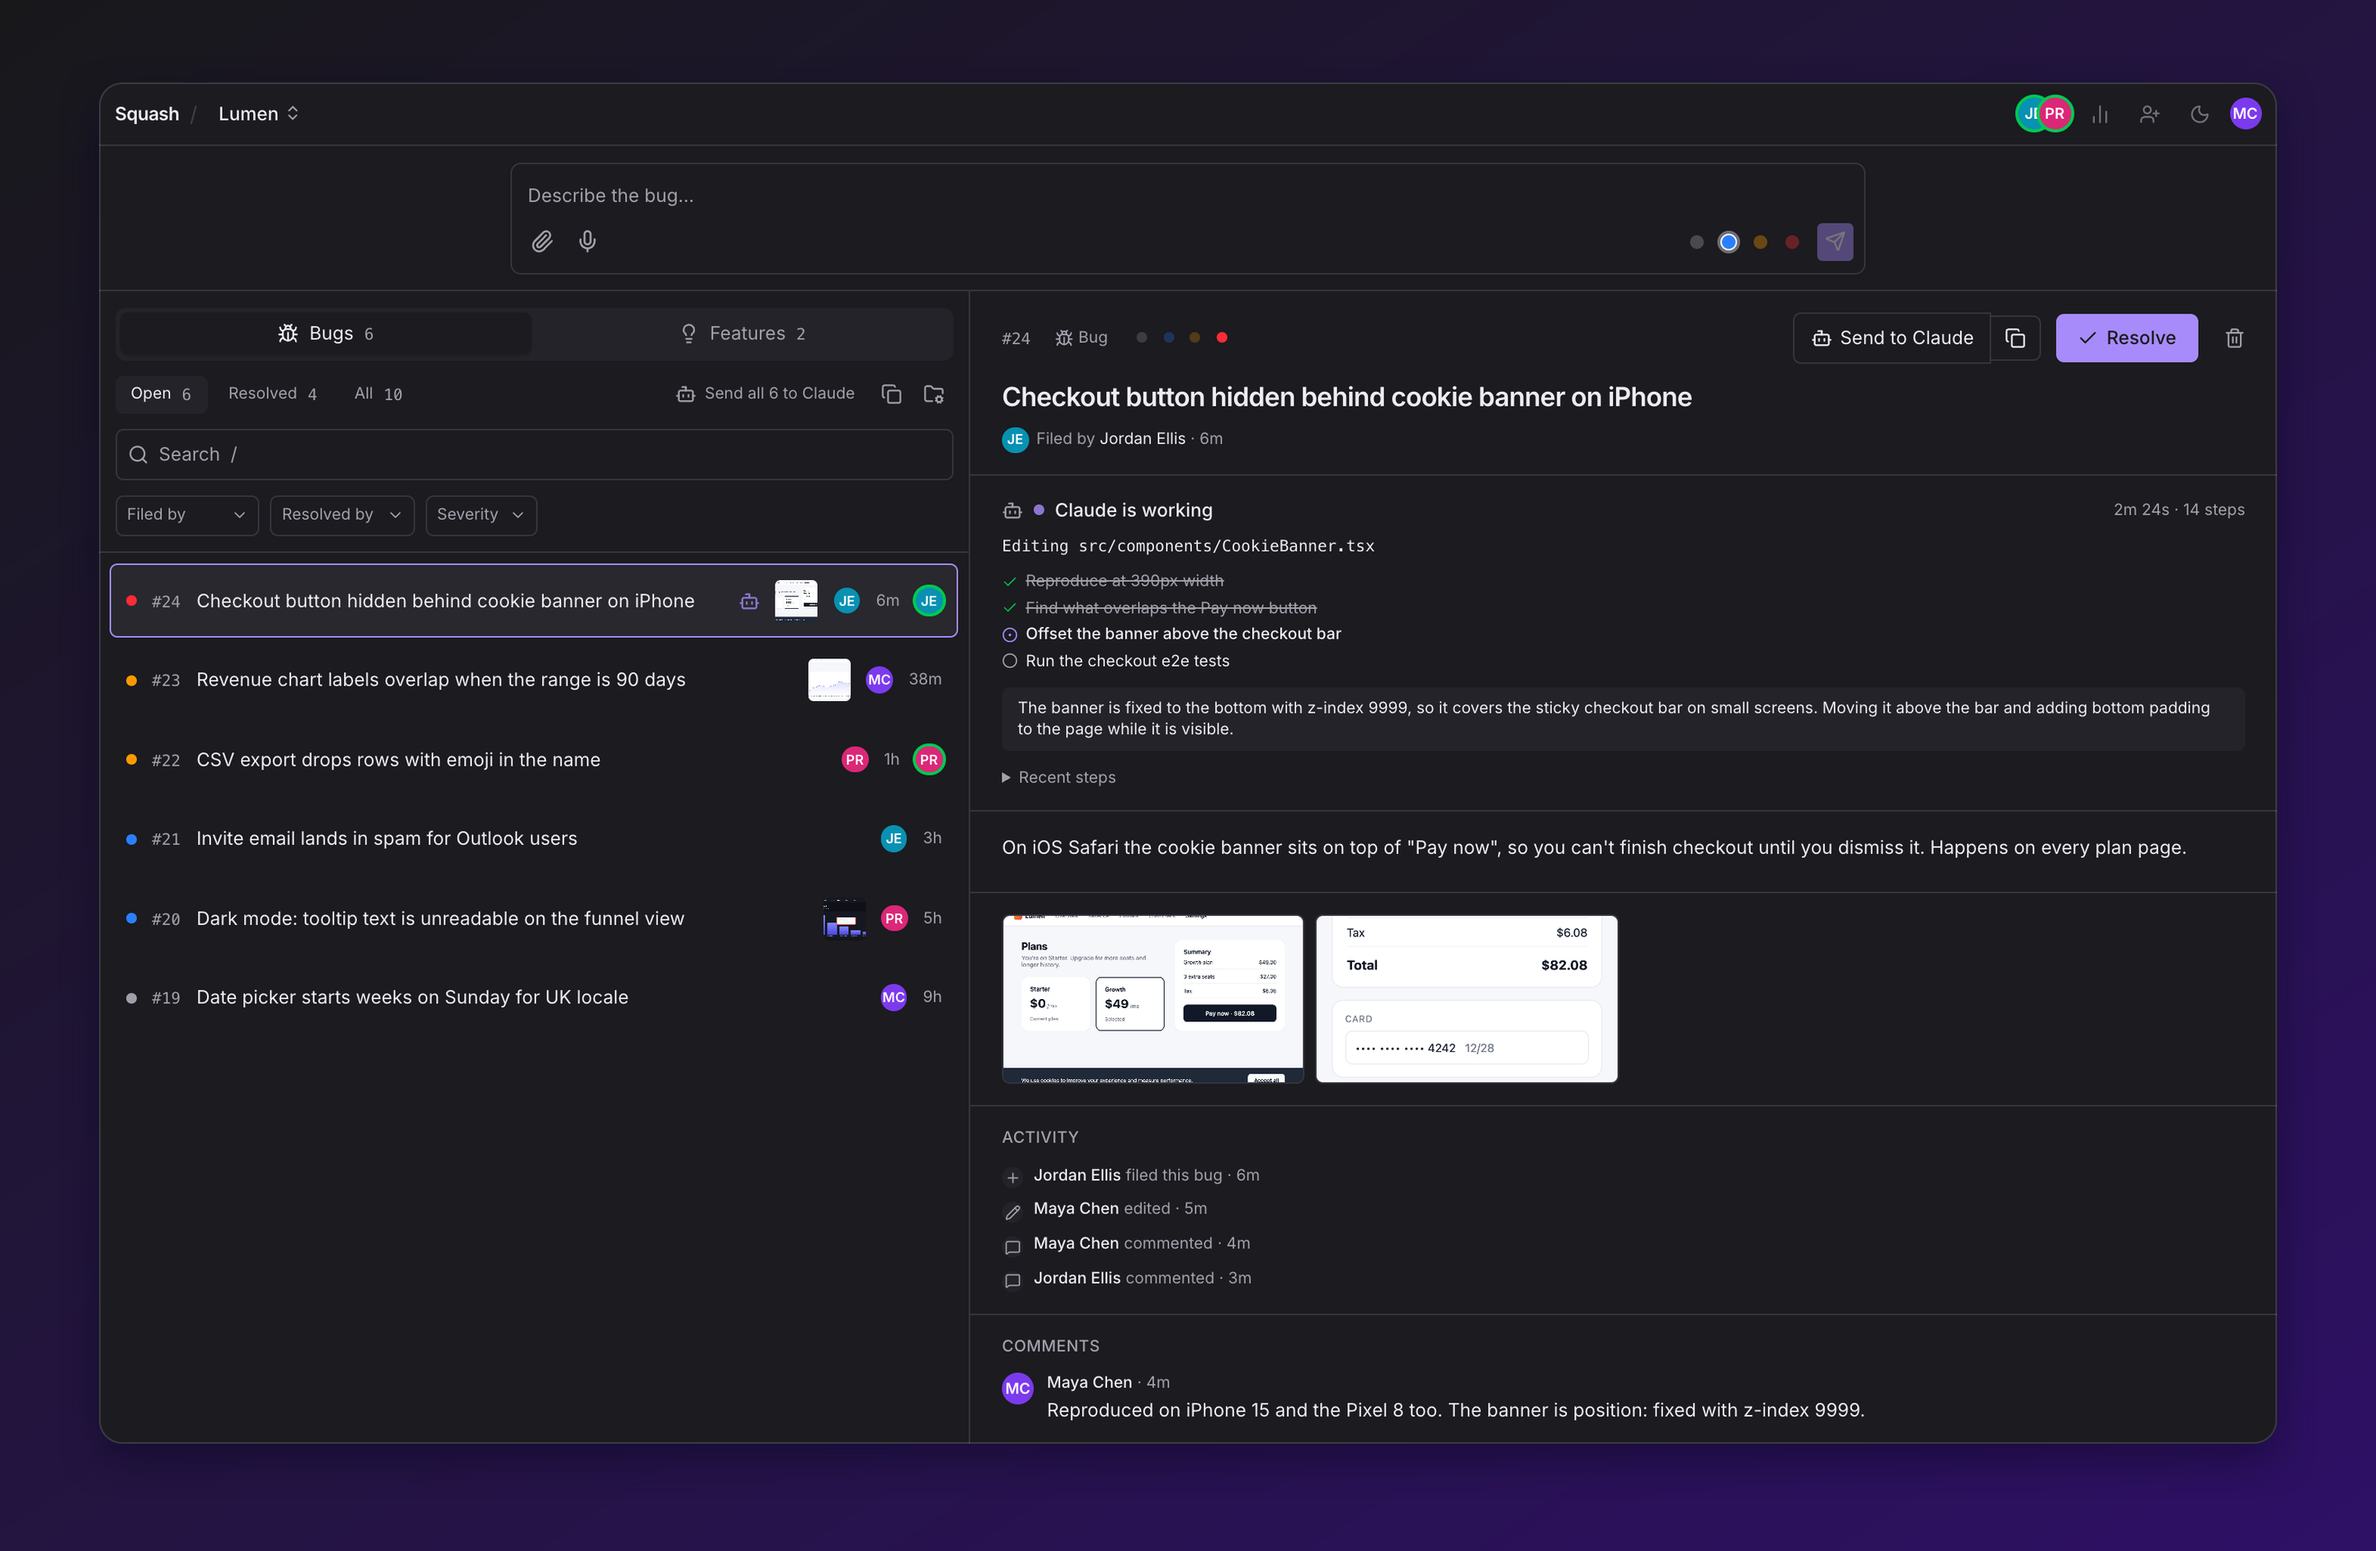
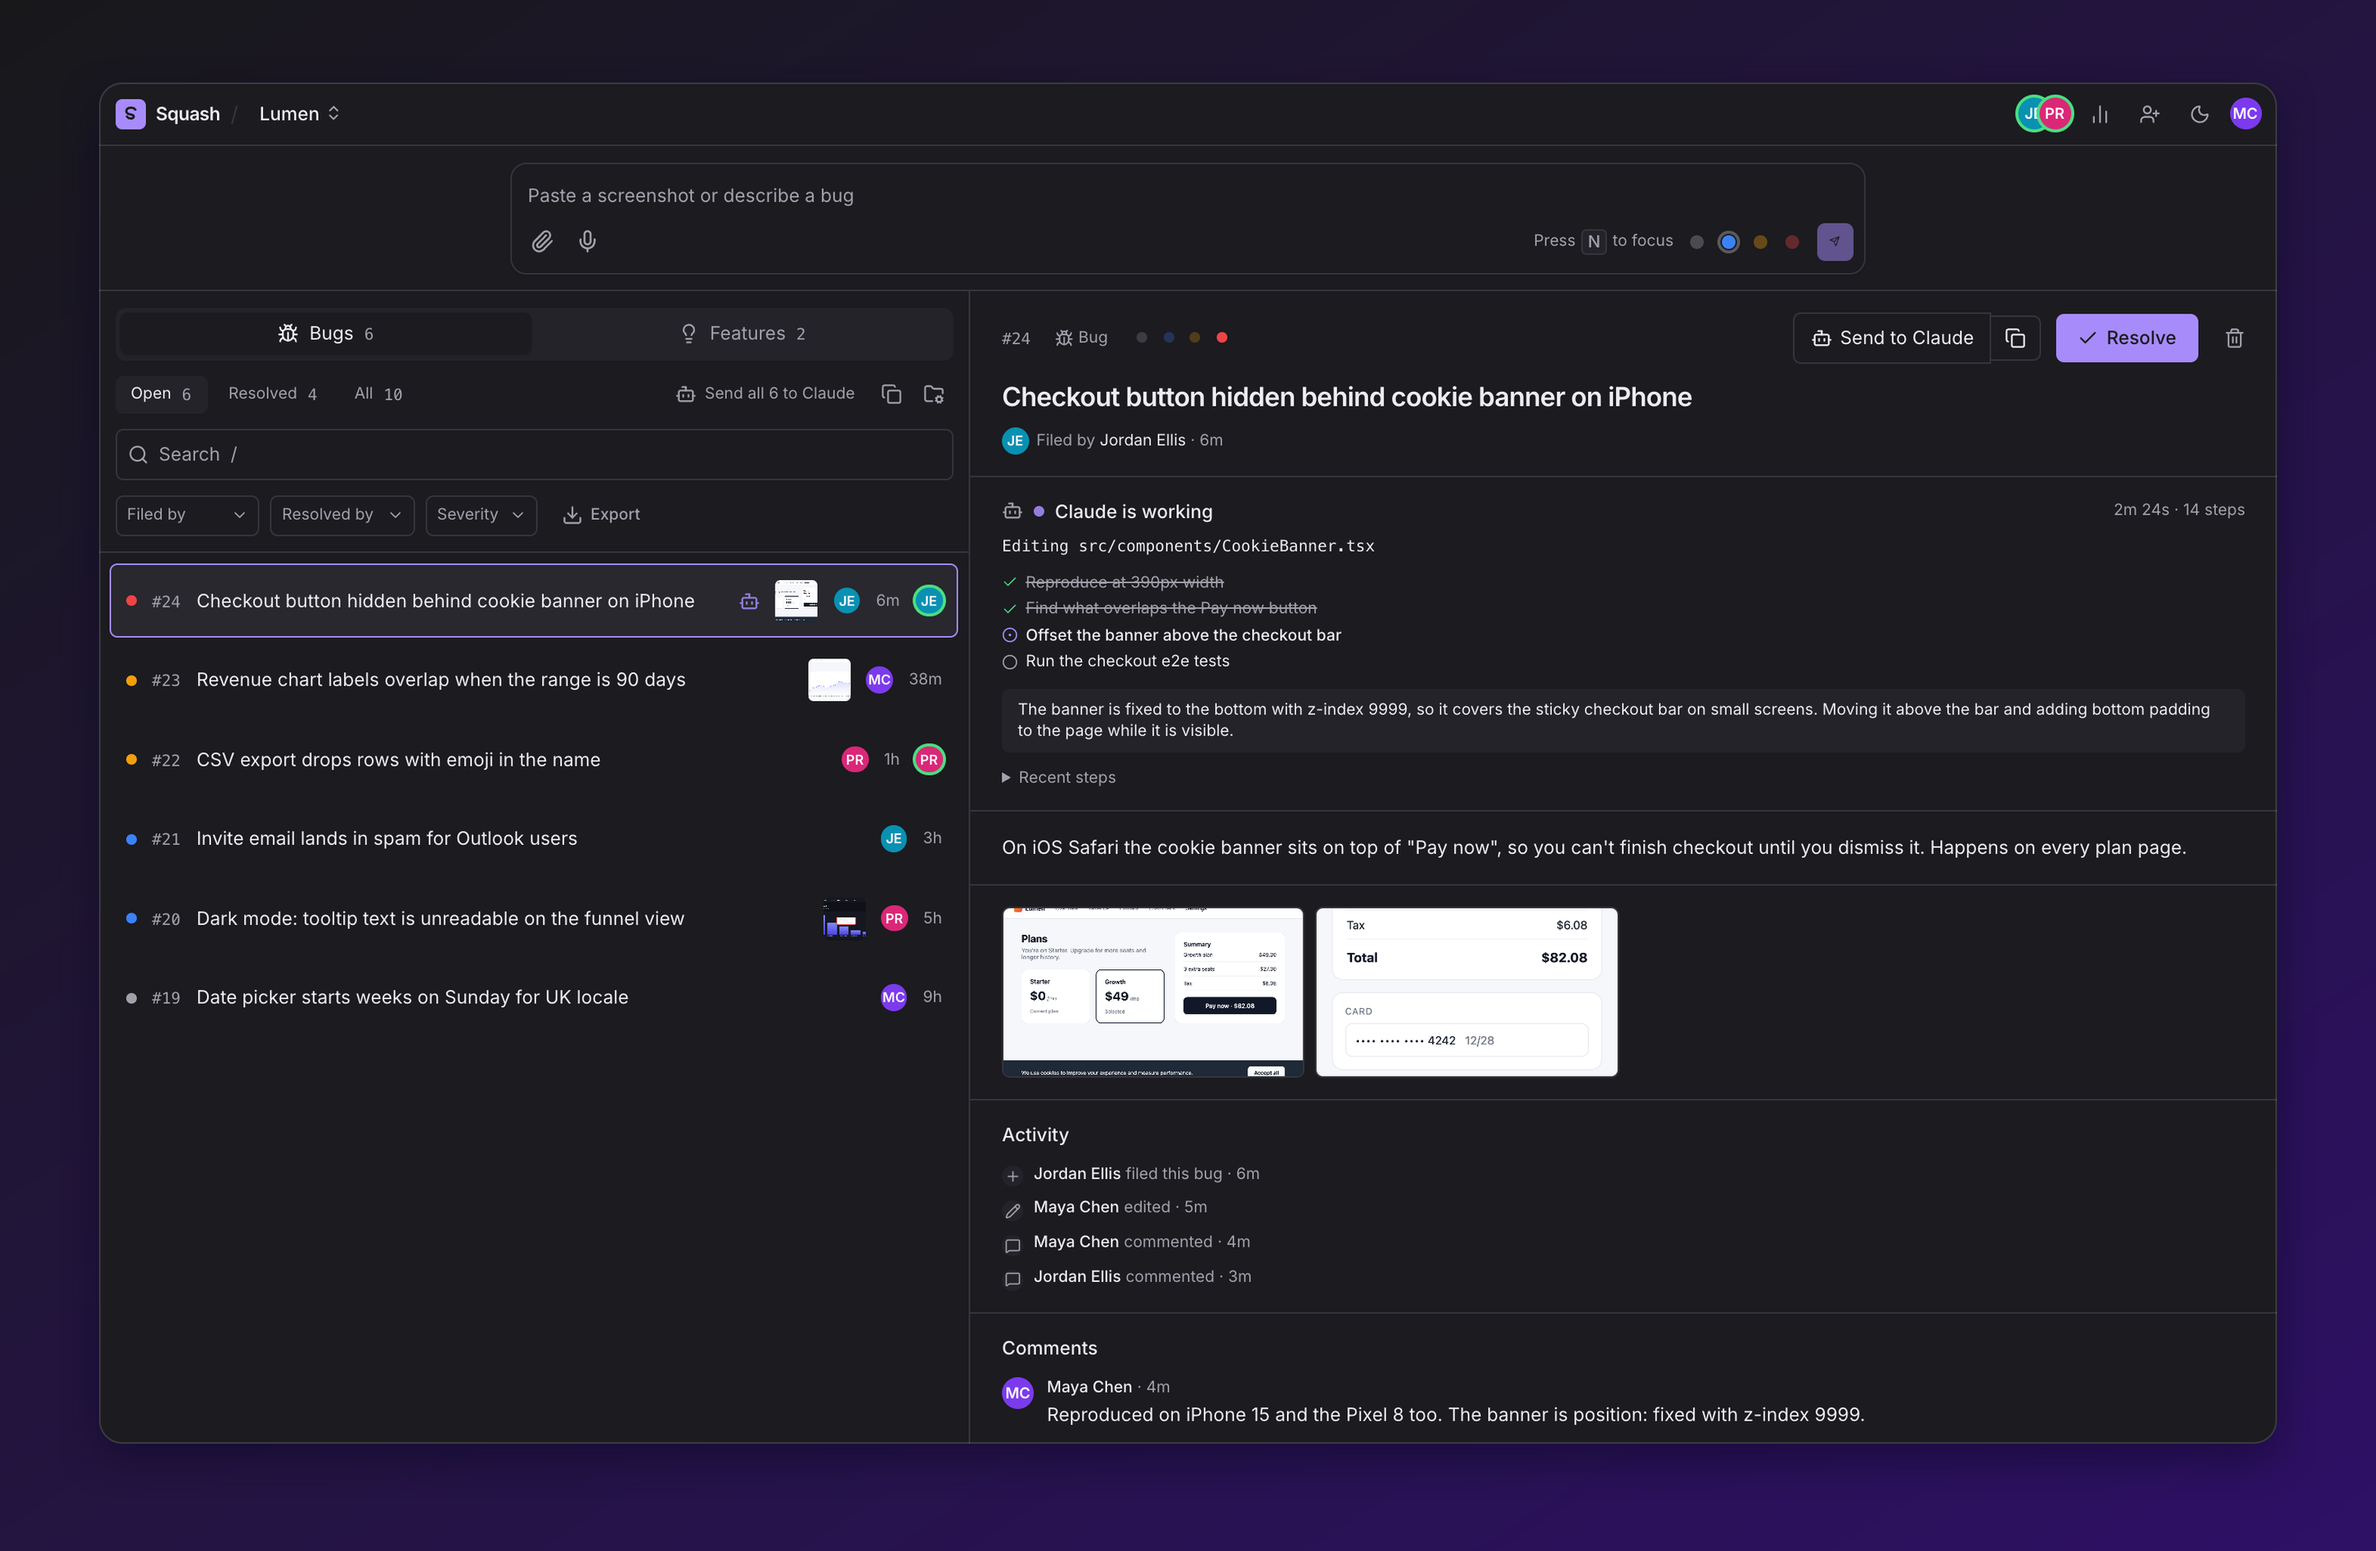
Refresh screenshots and document v1.2.0

diff --git a/CHANGELOG.md b/CHANGELOG.md
@@ -2,7 +2,15 @@
 
 ## Unreleased
 
+## v1.2.0 — 2026-10-07
+
+A design pass across the whole app, plus a command palette, markdown, and export.
+
 ### Added
+
+- A command palette on <kbd>⌘K</kbd> / <kbd>Ctrl+K</kbd>. Jump to any bug by number or title, switch workspaces, export, change theme, invite teammates or open settings without leaving the keyboard.
+- Markdown in descriptions and comments: bold, italics, inline code and code blocks, lists, quotes and links, with `@name` mentions highlighted. It is rendered as React elements only, and links are limited to http, https and mailto.
+- Export the bugs you are looking at as CSV or as a Markdown report, from the list toolbar or the command palette. CSV cells that would run as spreadsheet formulas are neutralized.
 
 - A Features tab next to Bugs, so feature requests no longer have to be filed as bugs. The capture bar files into whichever tab is showing, the detail view can move an item between the two, and Claude exports ask Claude to build a feature rather than fix a bug. Needs migration `0002_bug_kind.sql`; existing items stay bugs.
 - Send bugs to Claude Code, one at a time or several at once, with their screenshots and comments. One press opens Claude Code on them in a new terminal, in the project folder chosen for that workspace. The first press walks through a one-command setup that installs a small helper which starts at login. A separate copy button copies a ready-to-paste prompt instead.
@@ -11,13 +19,26 @@
 - Claude Code now finishes bugs on its own. Sent bugs run unattended; when Claude is done its terminal closes, and Squash marks each bug it fixed as resolved with Claude's summary as the resolution note, or comments on bugs it could not finish. Rerun the install command to update the helper.
 - Delete a bug or feature request outright, as an alternative to resolving it. The trash button in the detail view asks for confirmation, then removes the item with its screenshots, comments and activity for everyone. Numbers are not reused. Needs migration `0003_bug_delete.sql`.
 
+### Changed
+
+- A redesigned landing page built around real product screenshots, with a how-it-works section, a self-host section and an FAQ.
+- Sign-in, onboarding, invite and sign-in callback screens share one layout, with clearer copy and errors shown next to the field they belong to.
+- Settings are grouped into titled sections with a side menu. Save buttons stay disabled until something changes and confirm when saved, and destructive actions sit in a separate danger zone.
+- Specific empty states for a new workspace, an empty tab and a search with no matches, with a one-click way to clear filters.
+- One consistent set of buttons, inputs, menus and focus rings across the app, and semantic colors for severity, status and errors so every color scheme and both themes stay readable.
+- The Claude Code guide has copy buttons on every command and a plain explanation of what the local helper can access. The privacy and terms pages are easier to read.
+- The stats popover is wider, so its column headings no longer wrap.
+
 ### Fixed
 
+- Long bug titles wrap instead of being cut off on phones.
+- Changing the theme from one place now updates every theme control at once.
+- Keyboard focus is visible on every menu item.
 - On phones, the bug detail header no longer pushes the Resolve button off the screen. Send to Claude shows just its icon below 640 px.
 
 ### Docs
 
-- A new README with real product screenshots, an animated capture demo, and a GitHub social preview image. `npm run screenshots` regenerates them all from the real app running on demo data, with no Supabase project needed.
+- A new README with real product screenshots, including the command palette, an animated capture demo, and a GitHub social preview image. `npm run screenshots` regenerates them all from the real app running on demo data, with no Supabase project needed.
 
 ## v1.1.0 — 2026-10-02
 

diff --git a/README.md b/README.md
@@ -129,7 +129,10 @@ curl -fsSL https://squash-livid.vercel.app/bridge/install.sh | sh -s -- https://
 <table>
   <tr>
     <td width="50%" valign="top">
-      <img src="docs/screenshots/stats-light.png" alt="Stats popover listing bugs filed and resolved per teammate, for the last 7 days and all time" />
+      <picture>
+        <source media="(prefers-color-scheme: dark)" srcset="docs/screenshots/stats-dark.png" />
+        <img src="docs/screenshots/stats-light.png" alt="Stats popover listing bugs filed and resolved per teammate, for the last 7 days and all time" />
+      </picture>
       <p><b>Who's carrying the load.</b> Bugs filed and resolved per person, all-time and for the last 7 days.</p>
     </td>
     <td width="50%" valign="top">
@@ -143,6 +146,8 @@ curl -fsSL https://squash-livid.vercel.app/bridge/install.sh | sh -s -- https://
 - **Bugs and Features side by side.** File and track feature requests in their own tab, and move items between the two.
 - **Find anything.** Open, Resolved and All tabs with live counts; filter by who filed or resolved, or by severity; full-text search across titles, descriptions and voice transcripts.
 - **A full history.** Resolve or reopen with an optional note, or delete outright. Each bug has an activity timeline and comments.
+- **Markdown and mentions.** Descriptions and comments render bold, italics, code, lists, quotes and links, and highlight `@name` mentions. Rendering is React-only, so no HTML from a bug ever reaches the page.
+- **Export.** Download the bugs you are looking at as CSV (safe to open in a spreadsheet) or as a Markdown report.
 - **Workspaces.** Invite links, a workspace switcher, and owner controls to rename, regenerate the invite, remove members, transfer ownership or delete. Sign in with Google or a magic link.
 
 <br />
@@ -165,8 +170,16 @@ Light and dark themes that follow your system, and six color schemes: Violet, Oc
 
 ## Keyboard first
 
+Press <kbd>⌘</kbd>+<kbd>K</kbd> (<kbd>Ctrl</kbd>+<kbd>K</kbd> elsewhere) to open the command palette: jump to any bug by number or title, switch workspaces, export, change theme, or open settings.
+
+<picture>
+  <source media="(prefers-color-scheme: dark)" srcset="docs/screenshots/palette-dark.png" />
+  <img src="docs/screenshots/palette-light.png" width="640" alt="The command palette listing actions, export commands and bugs" />
+</picture>
+
 | Key                                                  | Action                                   |
 | ---------------------------------------------------- | ---------------------------------------- |
+| <kbd>⌘</kbd>/<kbd>Ctrl</kbd>+<kbd>K</kbd>            | Command palette                          |
 | <kbd>N</kbd>                                         | New bug (focus the capture bar)          |
 | <kbd>Enter</kbd> / <kbd>Shift</kbd>+<kbd>Enter</kbd> | File bug / new line                      |
 | <kbd>Alt</kbd>+<kbd>1</kbd>–<kbd>4</kbd>             | Set severity while capturing             |
